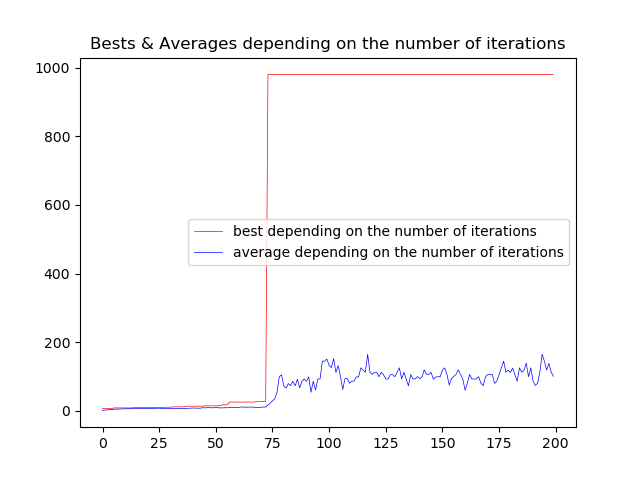
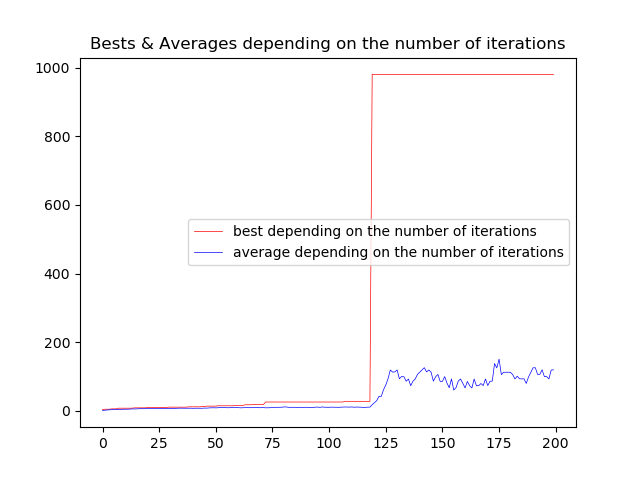
Added well shaped individual for pb4

diff --git a/src/problems/problem5/problem5_main.py b/src/problems/problem5/problem5_main.py
@@ -17,6 +17,6 @@ if __name__ == '__main__':
     problem = TravellingSalesmanProblem(graph_file=parentdir +
                                                    '\problems\problem5\graphs\graph_file_{}.txt'.format(graph_number))
     solver = AlgoGen(problem=problem, population_size=population_size, mutation_probability=mutation_probability,
-                     crossover_iterations=crossover_iterations, export=export)
+                     crossover_iterations=0, export=export)  # We disable crossovers to keep all individuals solutions
     best = solver.solve(iterations)
     print('Best path found: {}, value: {}'.format(*best[1:]))

diff --git a/src/problems/problem5/problem5_classes.py b/src/problems/problem5/problem5_classes.py
@@ -31,7 +31,8 @@ class TravellingSalesmanProblem(Problem):
         :rtype: int
         :UC: none
         """
-        return self.__graph.cross(individual.get_value())
+        result = self.__graph.cross(individual.get_value())
+        return result[1] + 1000 * (1 - result[0])
 
     def adapt(self, individual):
         """

diff --git a/src/problems/problem5/map.py b/src/problems/problem5/map.py
@@ -51,7 +51,7 @@ class TspGraph(object):
                 length += self.__graph[self.__visited[-1]][self.__visited[-2]]
             else:
                 break
-        return length
+        return len(self.__visited) == len(self.__graph), length
 
     def get_length(self):
         """
